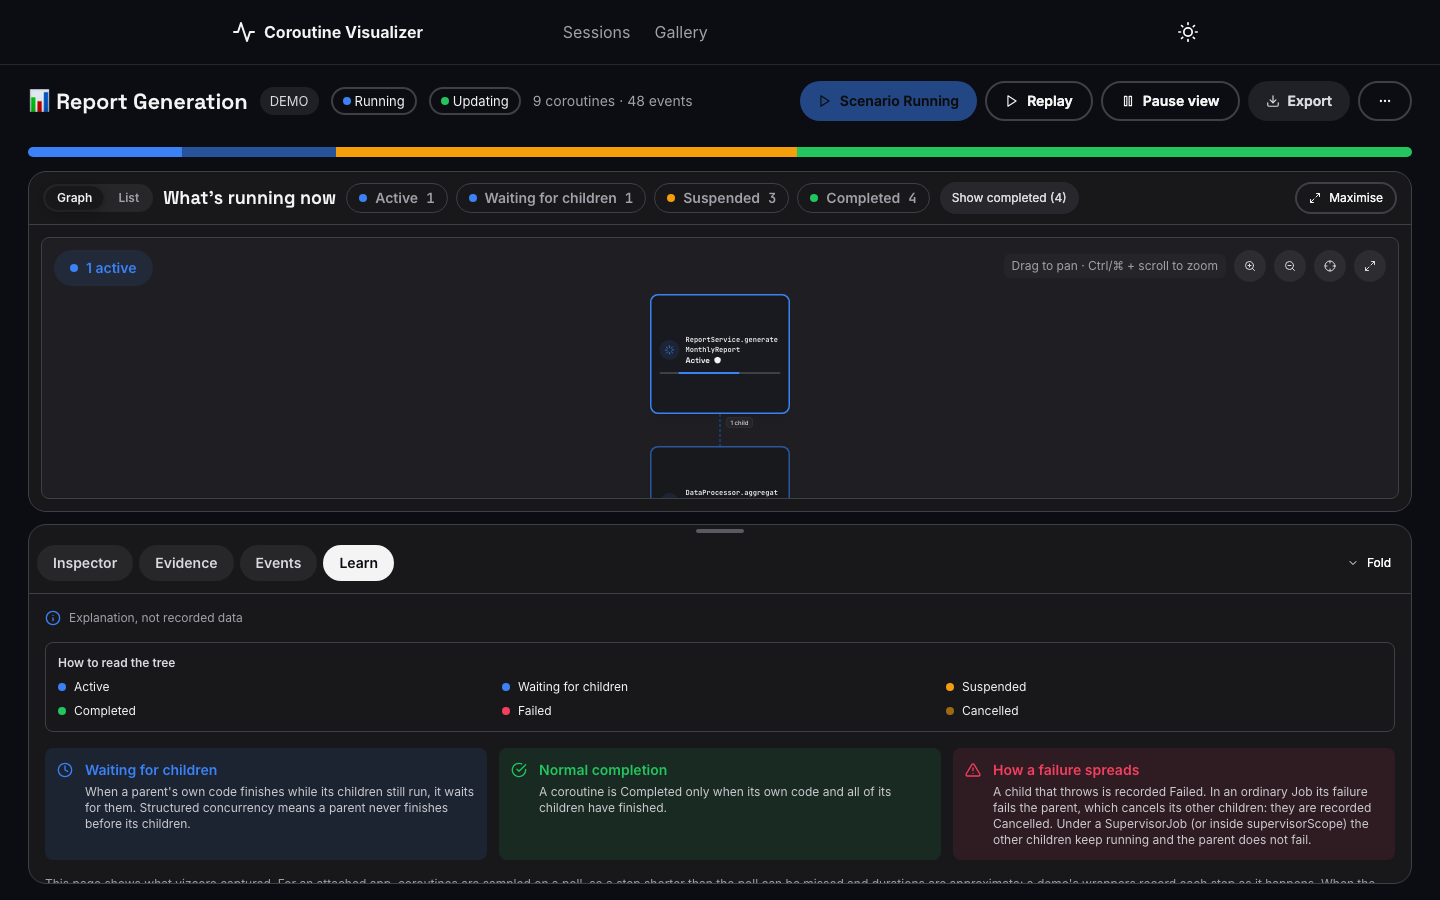
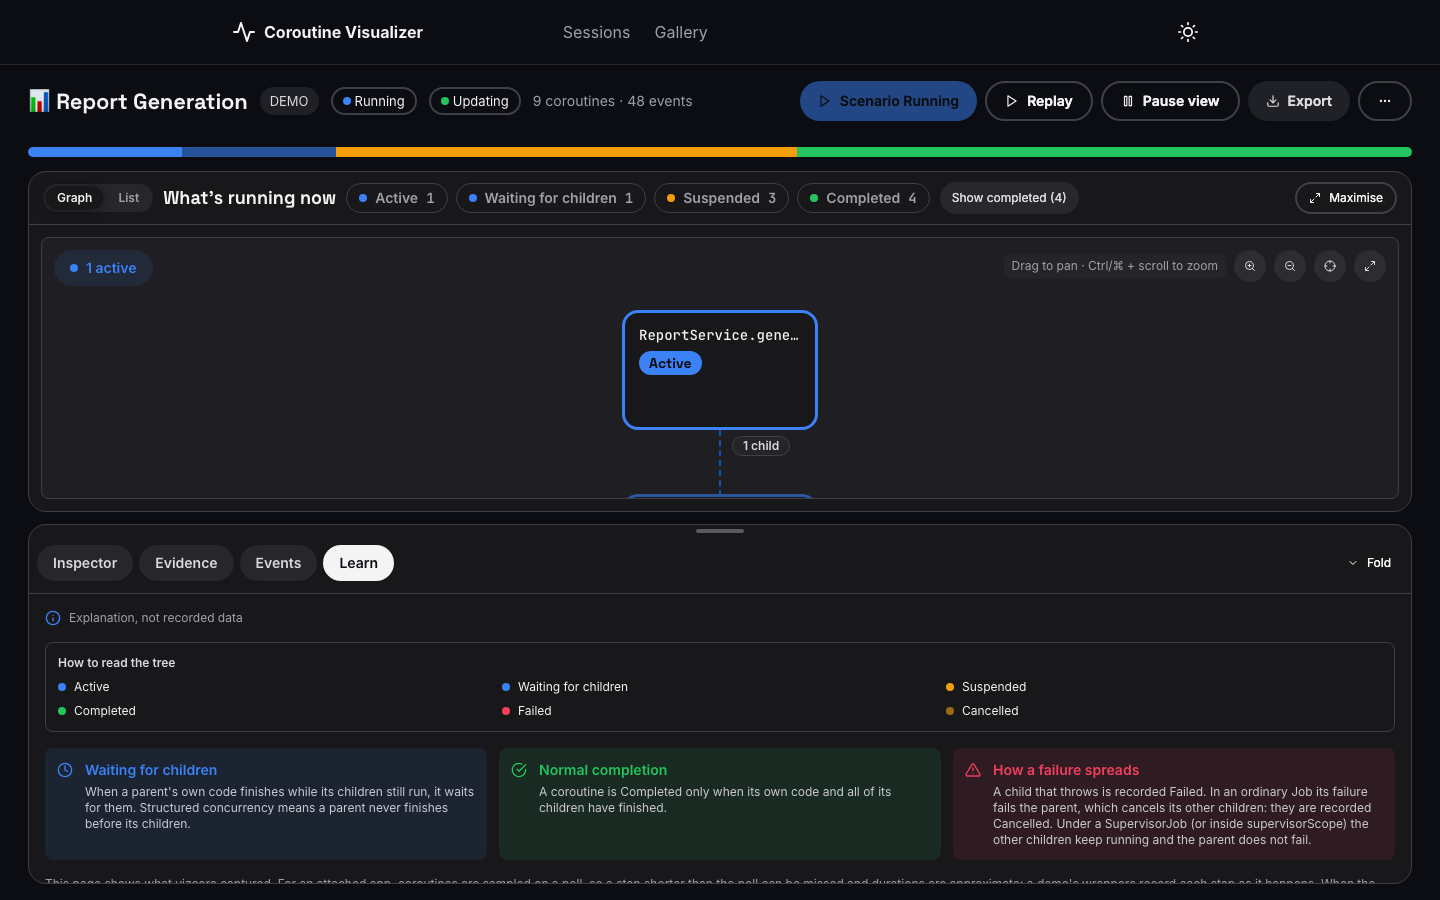
Look C after per-look cards: card rules in card.css only, fit measurements, the shared-ref assertion
Claude-Session: https://claude.ai/code/session_01W1v63uErFTcSoWqE152KLG

Changed region(s): [[0.4375, 0.3422, 0.5625, 0.4356], [0.4375, 0.5289, 0.5625, 0.56], [0.4375, 0.4667, 0.5625, 0.4978]]

diff --git a/frontend/src/looks/c-bold/look.test.ts b/frontend/src/looks/c-bold/look.test.ts
@@ -61,6 +61,8 @@ describe("C's SessionBody", () => {
     expect(body.type).toBe('div')
     const props = body.props as { ref?: unknown; 'data-look-part': string; className: string; children: unknown[] }
     expect(props['data-look-part']).toBe('body')
+    // The dock measures this element: the shared ref must reach it.
+    expect(props.ref).toBe(ref)
     // Classic's column with its 12 px gap (`gap-3`): the dock's size rules assume it.
     expect(props.className).toContain('gap-3')
     expect(props.children[0]).toBe(main)

diff --git a/docs/superpowers/plans/2026-11-06-look-c.md b/docs/superpowers/plans/2026-11-06-look-c.md
@@ -88,3 +88,12 @@ Backend on 18701; this branch built and served on 13703 (and in dev on 13701), t
 - Dock size rules, measured at 1024×900: body 713 px, padding 115 px (the overview), main view 320 + 12 + dock 266 = 598 px of content. Folded and maximised keep it; at 700 px tall the overview steps aside (padding 0) and comes back at 900.
 - Keyboard focus: HeroUI's focus outline on every header and toolbar button, the tab ring on the pill tabs (selected and not), the browser's ring on the view switch, state chips and cards.
 - Classic before/after (finished E-commerce Orders, a card selected, dock on Inspector and on Evidence, dark and light): 0 differing pixels in all four, re-run after merging the updated base.
+
+## Per-look cards and the fit floor (after #301 gained them)
+
+- Merged `feat/look-switch` (per-look cards, then `fitMinZoom`). C's card rules left `tokens.css`: the base's `c-bold/card.css` (keyed on the graph's `data-card-look`, so exports keep it) already draws the mono name, the state as a filled display-face pill, the 3 px outline and no id rows. C keeps it as it is; `card.ts` is 196 × 120 with `fitMinZoom: 1`.
+- Card text on screen at the first fit, 1440×900, dock at its default, "Right now" showing: the transform is `scale(1)`, the smallest card text is 12 px (the second line), the name and pill 14 px.
+- **Root and first row of children at the first view: not met, and not by the box alone.** Canvas height needed at scale 1: 40 (toolbar inset) + 32 + 120 + 64 + 120 = 376 px. Measured at 1440×900 with the dock at its default (40 %, 360 px): 298 px with no box at all, 262 with the bar only, 241 with a one-line callout (the main view pinned at its 320 px minimum). E-commerce's 6 children also need 1,440 px of width (6 × 196 + 5 × 40 + 64) against a 1,358 px canvas. Screenshots: `fit-ecommerce-box.png`, `fit-ecommerce-nobox.png`, `fit-sync-box.png`, `fit-sync-nobox.png`.
+- **Proposed trade-off** (needs a decision; not built): (1) C's dock starts smaller, about 20–25 % of the window, through a per-look initial dock share next to `fitMinZoom` (a small shared change; Classic stays 40 %); and (2) C's card becomes 180 × 104 with the second line on one row (full text in its tooltip), so six children fit the width and two rows need 344 px. Together they fit with the box open. Folding the box by default alone does not get there (298 < 376).
+- Codex R4 (one round on this change): no P1/P2; P3 the slot test did not assert the shared ref → asserted. Approve.
+- Gates: tsc clean, lint 0 errors, 1,346 tests in 136 files, build. Classic before/after against the new base: 0 differing pixels in all four (the cards now selected by keyboard: a mouse click left a hover-shadow transition that differed even base against base).
